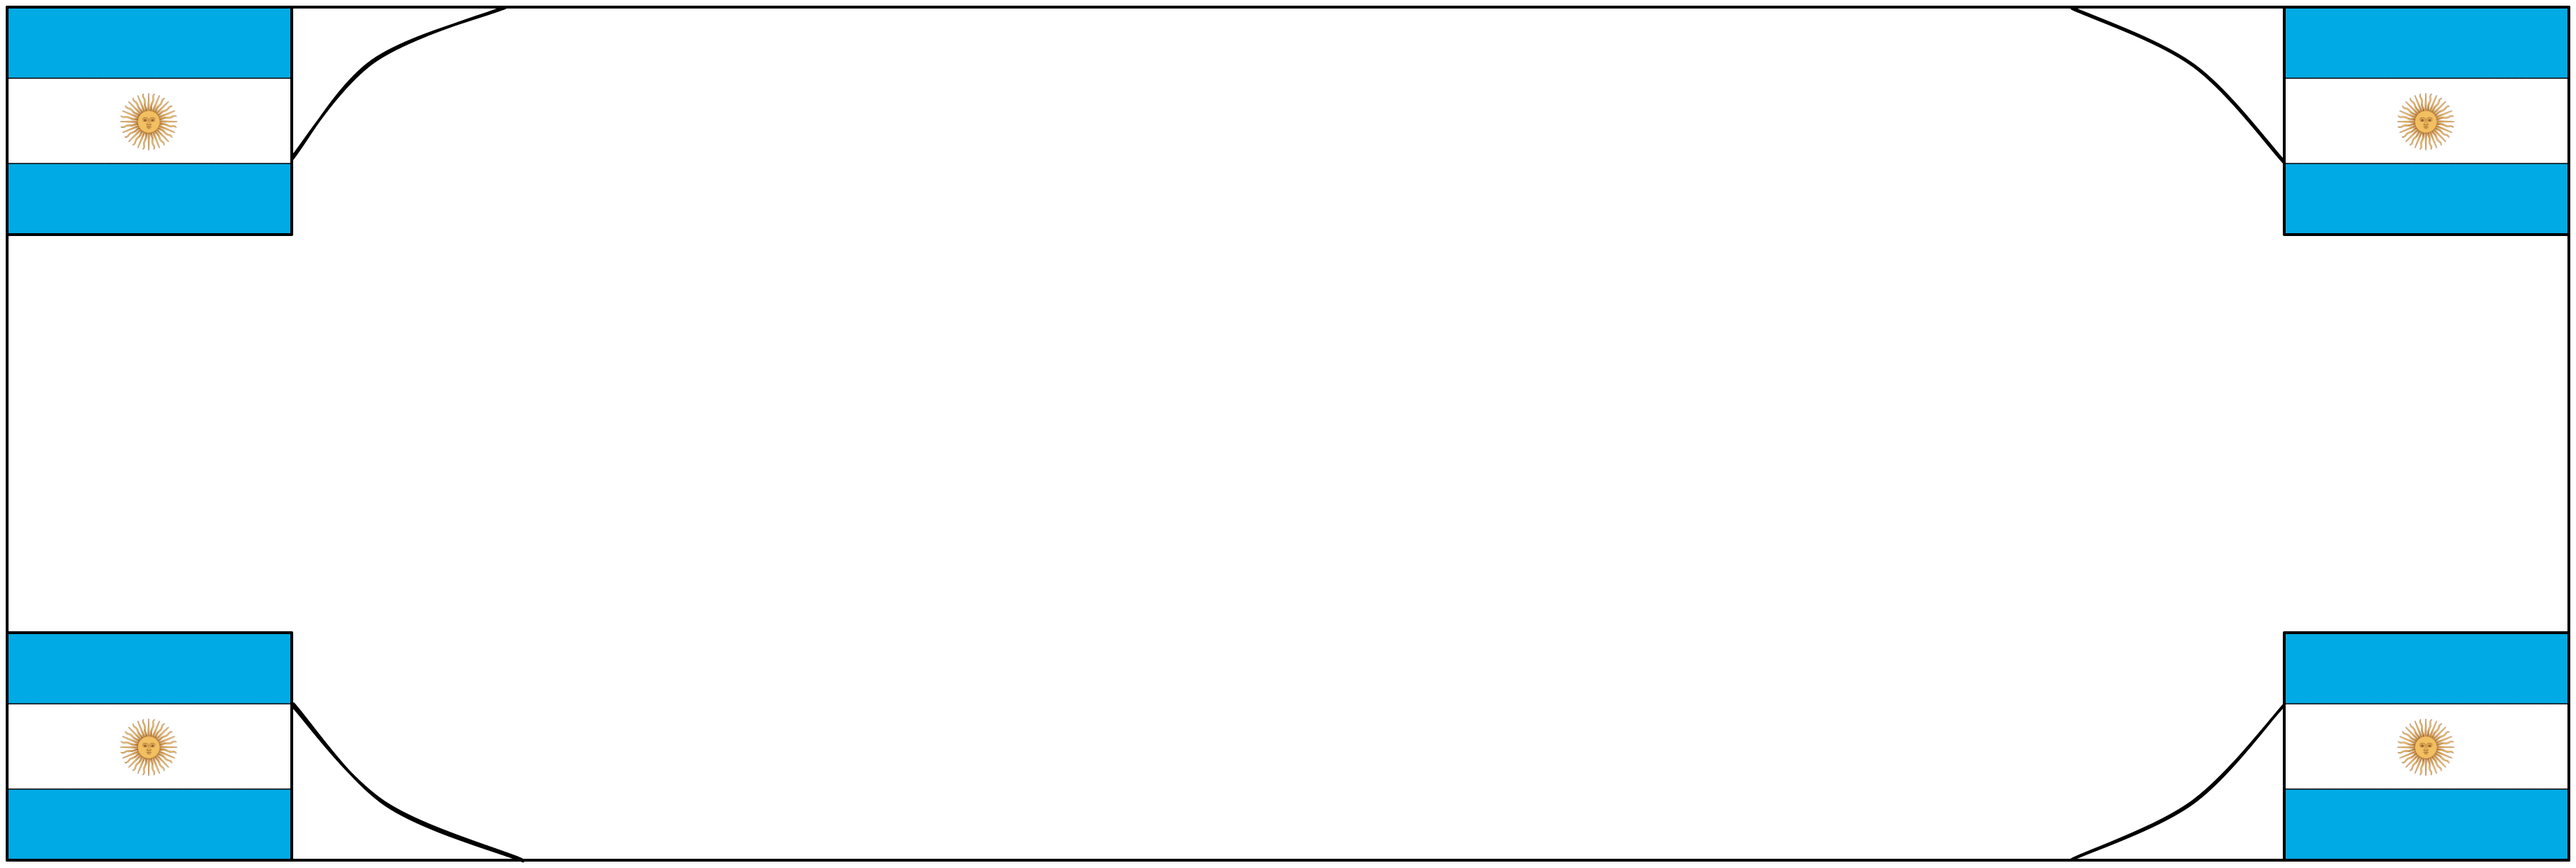
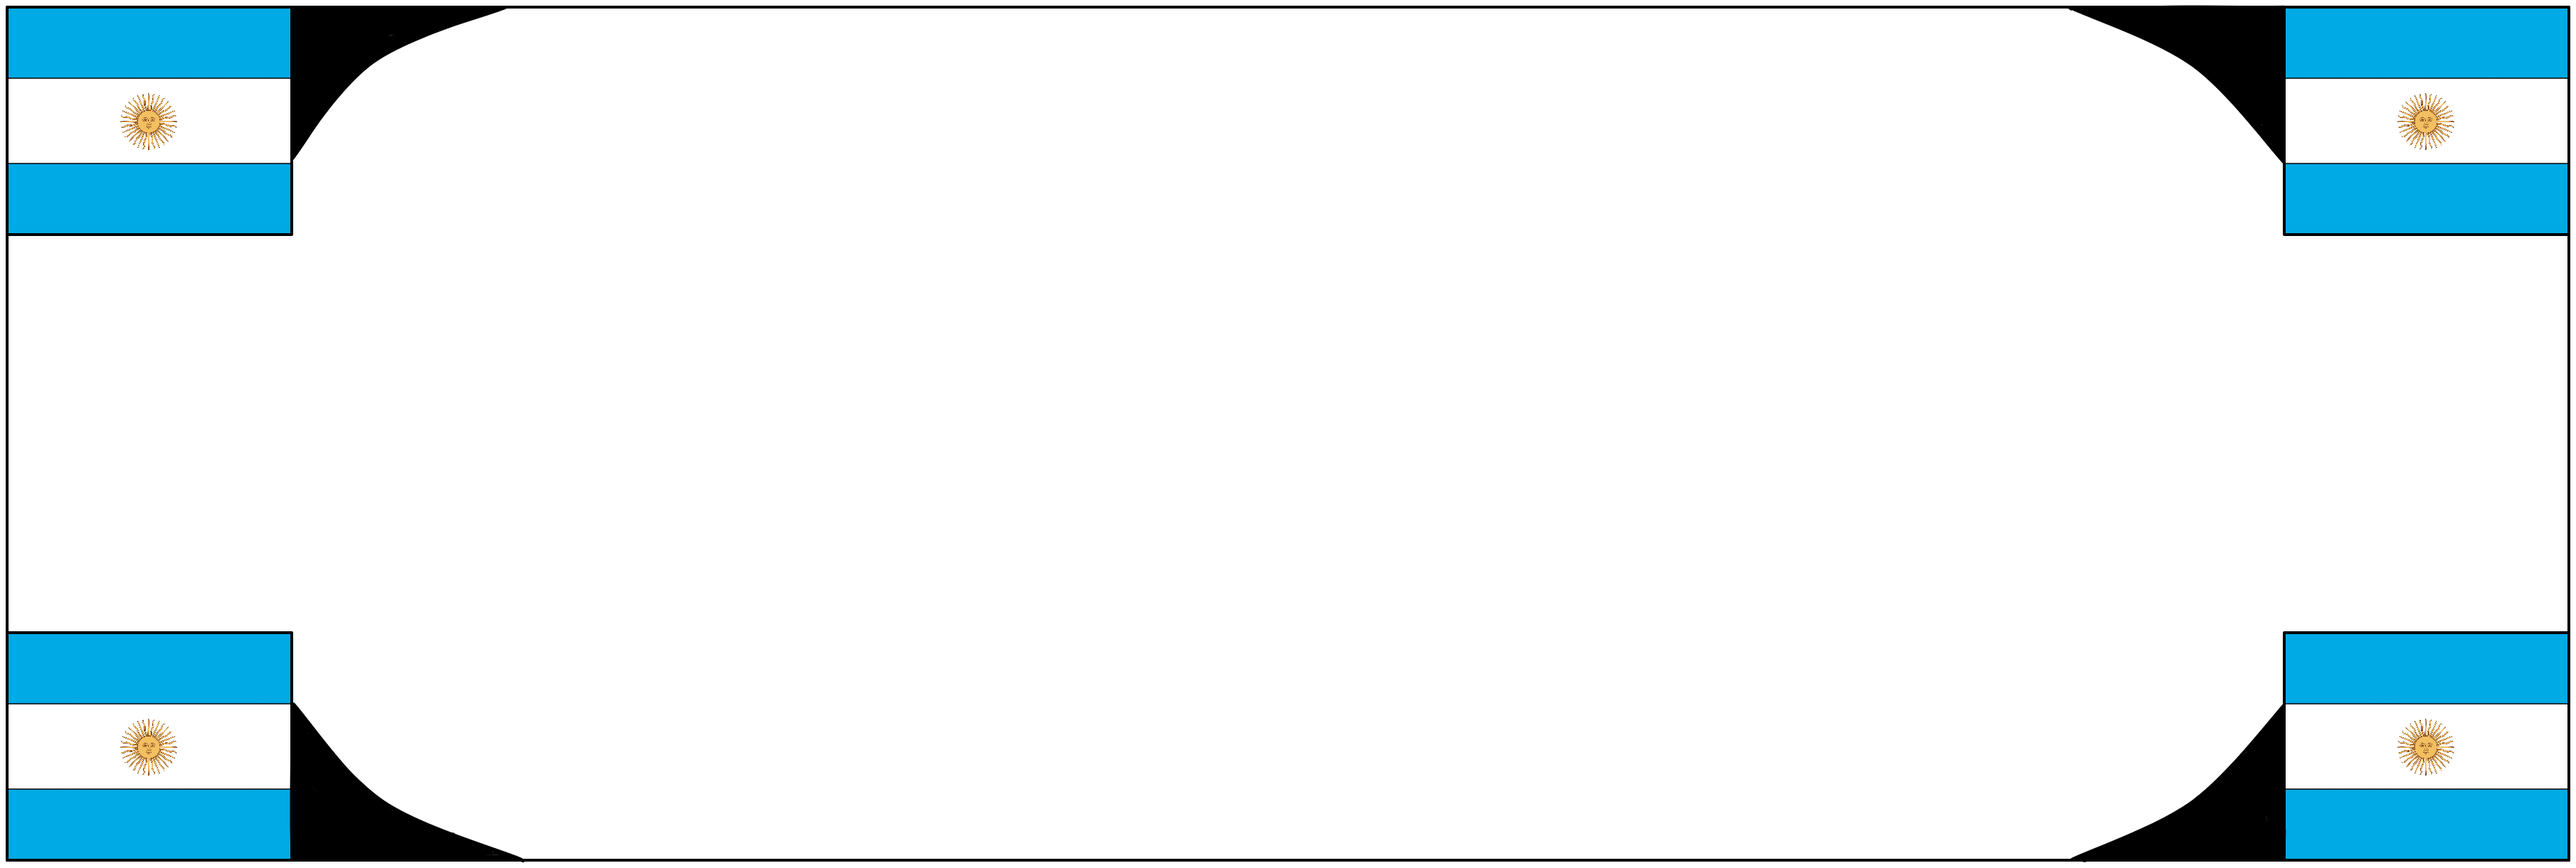
Sonido del golpe a la pelota

diff --git a/Server/Physics/ContactListener.cpp b/Server/Physics/ContactListener.cpp
@@ -63,6 +63,28 @@ bool ContactListener::getCarContactWithBox(b2Contact* contact, CarPhysics*& car)
 
 }
 
+bool ContactListener::getBallContactWithBox(b2Contact* contact, BallPhysics*& ball){
+    b2Fixture* fixtureA = contact->GetFixtureA();
+    b2Fixture* fixtureB = contact->GetFixtureB();
+
+    bool match1 =  fixtureA->GetFilterData().categoryBits == BALL && fixtureB->GetFilterData().categoryBits == BOUNDARY;
+    bool match2 = fixtureA->GetFilterData().categoryBits == BOUNDARY && fixtureB->GetFilterData().categoryBits == BALL;
+    
+    if (!(match1 || match2)){
+        return false;
+    }
+
+    BallPhysics* ballEntity;
+    if (fixtureA->GetFilterData().categoryBits == BALL) {//fixtureA is the ball
+        ballEntity = static_cast<BallPhysics*>(fixtureA->GetBody()->GetUserData());
+    } else { //fixtureB is the ball
+        ballEntity = static_cast<BallPhysics*>(fixtureB->GetBody()->GetUserData());
+    }
+
+    ball = ballEntity;
+    return true;
+}
+
 bool ContactListener::getCarSensorContactWithBall(b2Contact* contact, CarPhysics*& car, bool& isFrontSensor){
     b2Fixture* fixtureA = contact->GetFixtureA();
     b2Fixture* fixtureB = contact->GetFixtureB();
@@ -150,6 +172,9 @@ void ContactListener::BeginContact(b2Contact* contact) {
         
         return;
     }
+    if (this->getBallContactWithBox(contact,ball)){
+        ball->setContactWithBox(true);
+    }
     CarPhysics* car;
     if (this->getCarContactWithBox(contact, car)) {
         car->landed();
@@ -172,6 +197,7 @@ void ContactListener::BeginContact(b2Contact* contact) {
     }
 
     if (this->getCarContactWithBall(contact, car, ball)) {
+        ball->setContactWithBox(true);//para el sonido
         if (ball->getLastPlayerContact() == car) {
             return;
         }
@@ -188,6 +214,10 @@ void ContactListener::EndContact(b2Contact* contact) {
     BallPhysics* ball;
     if ( this->getGoalContactWithBall(contact, goal, ball) ) {
         //modelar termina el contacto
+    }
+
+    if(this->getBallContactWithBox(contact,ball)){
+        ball->setContactWithBox(false);
     }
     CarPhysics* car;
     if (this->getCarContactWithBox(contact, car)) {

diff --git a/Client/WindowRenderer.cpp b/Client/WindowRenderer.cpp
@@ -102,6 +102,8 @@ void WindowRenderer::launch() {
             SDL2pp::Surface("assets/turnLeft.png").SetColorKey(true, 0));
         SDL2pp::Texture turnRight(renderer, 
             SDL2pp::Surface("assets/turnRight.png").SetColorKey(true, 0));
+        SDL2pp::Texture humoTurbo(renderer, 
+            SDL2pp::Surface("assets/humo.png").SetColorKey(true, 0));
 
 
         //Iniciamos el command reader.
@@ -134,7 +136,7 @@ void WindowRenderer::launch() {
         //Instanciamos a priori cuatro jugadores.
         std::list<Player> players;
         for (int i = 0; i < 4; i++) {
-            players.emplace_back(im, turbo, turboBarEmpty, turboBarFull,turnLeft,turnRight);
+            players.emplace_back(im, turbo, turboBarEmpty, turboBarFull,turnLeft,turnRight,humoTurbo);
         }
         
         std::string lastState("");
@@ -192,6 +194,12 @@ void WindowRenderer::launch() {
                 CommonConfig::getFrameTimeInMicroseconds(), 
                 gameStatusSnapshot.isInExplosion());
             ball.render(renderer,gameStatusSnapshot.isInExplosion());
+
+            if (gameStatusSnapshot.getBallModel().getContactWithBox()) {
+                backGroundMusic.bounceMusic();
+
+            }
+            
             backGroundMusic.explosionMusic(gameStatusSnapshot.isInExplosion());
 
             auto playerIter = players.begin();
@@ -202,7 +210,6 @@ void WindowRenderer::launch() {
                 playerIter->render(renderer, i);
                 ++playerIter;
                 ++i;
-                std::cout <<  playerModel->getName() << "goals: " << playerModel->getGoals() << "assists: " << playerModel->getAssists() << std::endl;
             }
 
             if (isInReplay) {

diff --git a/Client/SDL/Player.cpp b/Client/SDL/Player.cpp
@@ -3,13 +3,14 @@
 #include <iostream>
 
 Player::Player(SDL2pp::Texture &textureCar, SDL2pp::Texture &textureTurbo, SDL2pp::Texture &textureTurboBarEmpty, 
-    SDL2pp::Texture &textureTurboBarFull,SDL2pp::Texture &turnLeft,SDL2pp::Texture &turnRight) : 
+    SDL2pp::Texture &textureTurboBarFull,SDL2pp::Texture &turnLeft,SDL2pp::Texture &turnRight,SDL2pp::Texture &humo) : 
     anCar(textureCar, 1, 1), 
     anTurbo(textureTurbo, 1, 1),
     anTurboBarEmpty(textureTurboBarEmpty, 1, 1),
     anTurboBarFull(textureTurboBarFull, 1, 1),
     anTurnLeft(turnLeft,2,4),
     anTurnRight(turnRight,2,4),
+    anHumo(humo,5,6),
     facingLeft(false), 
     moving(false),
     turbo(false),
@@ -55,11 +56,17 @@ void Player::render(SDL2pp::Renderer &renderer, int i) {
     }
     
     
-    if (not turbo) 
+    if (not turbo){ 
         anCar.render(renderer, SDL2pp::Rect(x, y, CAR_WIDTH, CAR_HEIGHT), flip, angle);
-    else
+        }
+    else{
         anTurbo.render(renderer, SDL2pp::Rect(x - CAR_WIDTH/2, y, CAR_WIDTH + CAR_WIDTH/2, CAR_HEIGHT), flip, angle);
-
+        if(facingLeft){
+            anHumo.render(renderer,SDL2pp::Rect(x + CAR_WIDTH, y, CAR_WIDTH , CAR_HEIGHT), flip, angle);
+        }else{
+            anHumo.render(renderer,SDL2pp::Rect(x - CAR_WIDTH*2, y, CAR_WIDTH , CAR_HEIGHT), flip, angle);
+        }
+    }
     
     
     flip = SDL_FLIP_NONE;

diff --git a/Common/GameStatusSerializer.cpp b/Common/GameStatusSerializer.cpp
@@ -43,6 +43,9 @@ std::string GameStatusSerializer::serialize(GameStatus gameStatus) {
     ss << scoreModel.getGoalsFirstTeam() << " ";
     ss << scoreModel.getGoalsSecondTeam() << " ";
 
+    if(ballModel.getContactWithBox()){ss << "isTouching" << " ";}else{
+        ss << "notTouching" << " ";
+    }
     ss << ballModel.getCoordX() << " ";
     ss << ballModel.getCoordY() << " ";
     ss << ballModel.getAngle() << " ";
@@ -121,15 +124,24 @@ GameStatus GameStatusSerializer::deserialize(std::string gameStatusString) {
     ss >> goalsSecond;
     ScoreModel scoreModel(min, sec, milisec, goalsFirst, goalsSecond);
 
+
     float xCoordBall;
     float yCoordBall;
     float angleBoard;
     std::string colour;
+
+    bool touchingBox;
+    std::string touchingBoxStr;
+    ss >> touchingBoxStr;
+
+    if(touchingBoxStr == "isTouching"){touchingBox = true;}else{
+        touchingBox = false;
+    }
     ss >> xCoordBall;
     ss >> yCoordBall;
     ss >> angleBoard;
     ss >> colour;
-    BallModel ballModel(xCoordBall, yCoordBall, angleBoard, colour);
+    BallModel ballModel(xCoordBall, yCoordBall, angleBoard, colour,touchingBox);
     
     for (int i = 0; i < numPlayers; ++i) {
         //std::string name;

diff --git a/Server/Physics/BallPhysics.cpp b/Server/Physics/BallPhysics.cpp
@@ -22,6 +22,7 @@ BallPhysics::BallPhysics(b2World &world) {
 
     this->lastPLayerContact = nullptr;
     this->penultimatePlayerContact = nullptr;
+    this->contactWithBox = false;
     // this->lastPLayerContact = 0;
     // this->penultimatePlayerContact = 0;
 }
@@ -117,7 +118,7 @@ BallModel BallPhysics::getModel(){
         }
     }
 
-    BallModel bm(ballCoordX, ballCoordY, this->ballBody->GetAngle() * (-1), colour);
+    BallModel bm(ballCoordX, ballCoordY, this->ballBody->GetAngle() * (-1), colour, this->contactWithBox);
     return bm;
 
 }
@@ -135,4 +136,7 @@ CarPhysics* BallPhysics::getLastPlayerContact(){
 
 CarPhysics* BallPhysics::getPenultimatePlayerContact(){
     return this->penultimatePlayerContact;
+}
+void BallPhysics::setContactWithBox(bool isTouching){
+    this->contactWithBox = isTouching;
 }

diff --git a/Client/BackgroundMusic.cpp b/Client/BackgroundMusic.cpp
@@ -3,7 +3,7 @@
 
 BackGroundMusic::BackGroundMusic(SDL2pp::Mixer &newmixer): mixer(newmixer),backGround0("music/background.ogg"),
     backGround1("music/background2.ogg"),explosionChunk("music/explosion.ogg"),
-    jumpChunk("music/jump.ogg"), turboChunk("music/turboSound.ogg"){
+    jumpChunk("music/jump.ogg"), turboChunk("music/turboSound.ogg"),bounceChunk("music/bounce.ogg"){
     this->isPlayingMusic = true;
     this->isPlayingTurboSound = false;
     this->channel = 1;
@@ -66,4 +66,8 @@ bool BackGroundMusic::getIsPlayingTurbo() {
 void BackGroundMusic::stopTurboSound() {
     mixer.HaltChannel(turboChannel);
     this->isPlayingTurboSound = false;
+}
+
+void BackGroundMusic::bounceMusic(){
+    mixer.PlayChannel(-1, bounceChunk);
 }

diff --git a/Client/SDL/Player.h b/Client/SDL/Player.h
@@ -14,7 +14,7 @@
 class Player {
 public:
     Player(SDL2pp::Texture &textureCar, SDL2pp::Texture &textureTurbo, SDL2pp::Texture &textureTurboBarEmpty,
-    SDL2pp::Texture &textureTurboBarFull,SDL2pp::Texture &turnLeft,SDL2pp::Texture &turnRight);
+    SDL2pp::Texture &textureTurboBarFull,SDL2pp::Texture &turnLeft,SDL2pp::Texture &turnRight,SDL2pp::Texture &humo);
     ~Player();
     void update(PlayerModel playerModel, int dt);
     void render(SDL2pp::Renderer &renderer, int i);
@@ -26,6 +26,7 @@ private:
     Animation anTurboBarFull;
     Animation anTurnLeft;
     Animation anTurnRight;
+    Animation anHumo;
     bool facingLeft;
     bool moving;
     float x;

diff --git a/Common/Model/BallModel.cpp b/Common/Model/BallModel.cpp
@@ -2,11 +2,12 @@
 
 BallModel::BallModel() : x(370), y(400), angle(0), colour("") {}
 
-BallModel::BallModel(float xCoord, float yCoord, float ang, std::string col) {
+BallModel::BallModel(float xCoord, float yCoord, float ang, std::string col,bool contact) {
     x = xCoord;
     y = yCoord;
     angle = ang;
     colour = col;
+    contactWithBox = contact;
 }
 
 BallModel::~BallModel(){}
@@ -24,4 +25,7 @@ float BallModel::getAngle() {
 
 std::string BallModel::getColour() {
     return colour;
+}
+bool BallModel::getContactWithBox(){
+    return contactWithBox;
 }

diff --git a/Common/Model/BallModel.h b/Common/Model/BallModel.h
@@ -8,17 +8,20 @@ private:
     float y;
     float angle;
     std::string colour;
+    bool contactWithBox;
 
 
 public:
     BallModel();
-    BallModel(float xCoord, float yCoord, float ang, std::string colour);
+    BallModel(float xCoord, float yCoord, float ang, std::string colour,bool contactWithBox);
     //void moveRight();
     //void moveLeft();
     float getCoordX();
     float getCoordY();
     float getAngle();
     std::string getColour();
+
+    bool getContactWithBox();
 
     ~BallModel();
 };

diff --git a/Server/Physics/BallPhysics.h b/Server/Physics/BallPhysics.h
@@ -22,6 +22,7 @@ private:
     void generateImpulse(float impulse);
     SpecialShot shotType;
     int specialShotTimer;
+    bool contactWithBox;
     
 
     //Id del cliente
@@ -61,6 +62,8 @@ public:
     void updateShotStatus();
 
     void updateLastPlayerContact(CarPhysics* newPlayer);
+
+    void setContactWithBox(bool isTouching);
 
     CarPhysics* getLastPlayerContact();
     CarPhysics* getPenultimatePlayerContact();

diff --git a/Client/BackGroundMusic.h b/Client/BackGroundMusic.h
@@ -21,6 +21,8 @@ class BackGroundMusic{
     SDL2pp::Chunk explosionChunk;
     SDL2pp::Chunk jumpChunk;
     SDL2pp::Chunk turboChunk;
+    SDL2pp::Chunk bounceChunk;
+
 
     public:
 
@@ -53,6 +55,9 @@ class BackGroundMusic{
 
     //Sonido de la explosion.
     void explosionMusic(bool isInExplosion);
+
+    void bounceMusic();
+
     ~BackGroundMusic() = default;
 };
 

diff --git a/Server/Physics/ContactListener.h b/Server/Physics/ContactListener.h
@@ -22,7 +22,7 @@ class ContactListener : public b2ContactListener  {
 
     bool getCarContactWithBall(b2Contact* contact, CarPhysics*& car, BallPhysics*& ball);
 
-
+    bool getBallContactWithBox(b2Contact* contact, BallPhysics*& ball);
 };
 
 #endif
